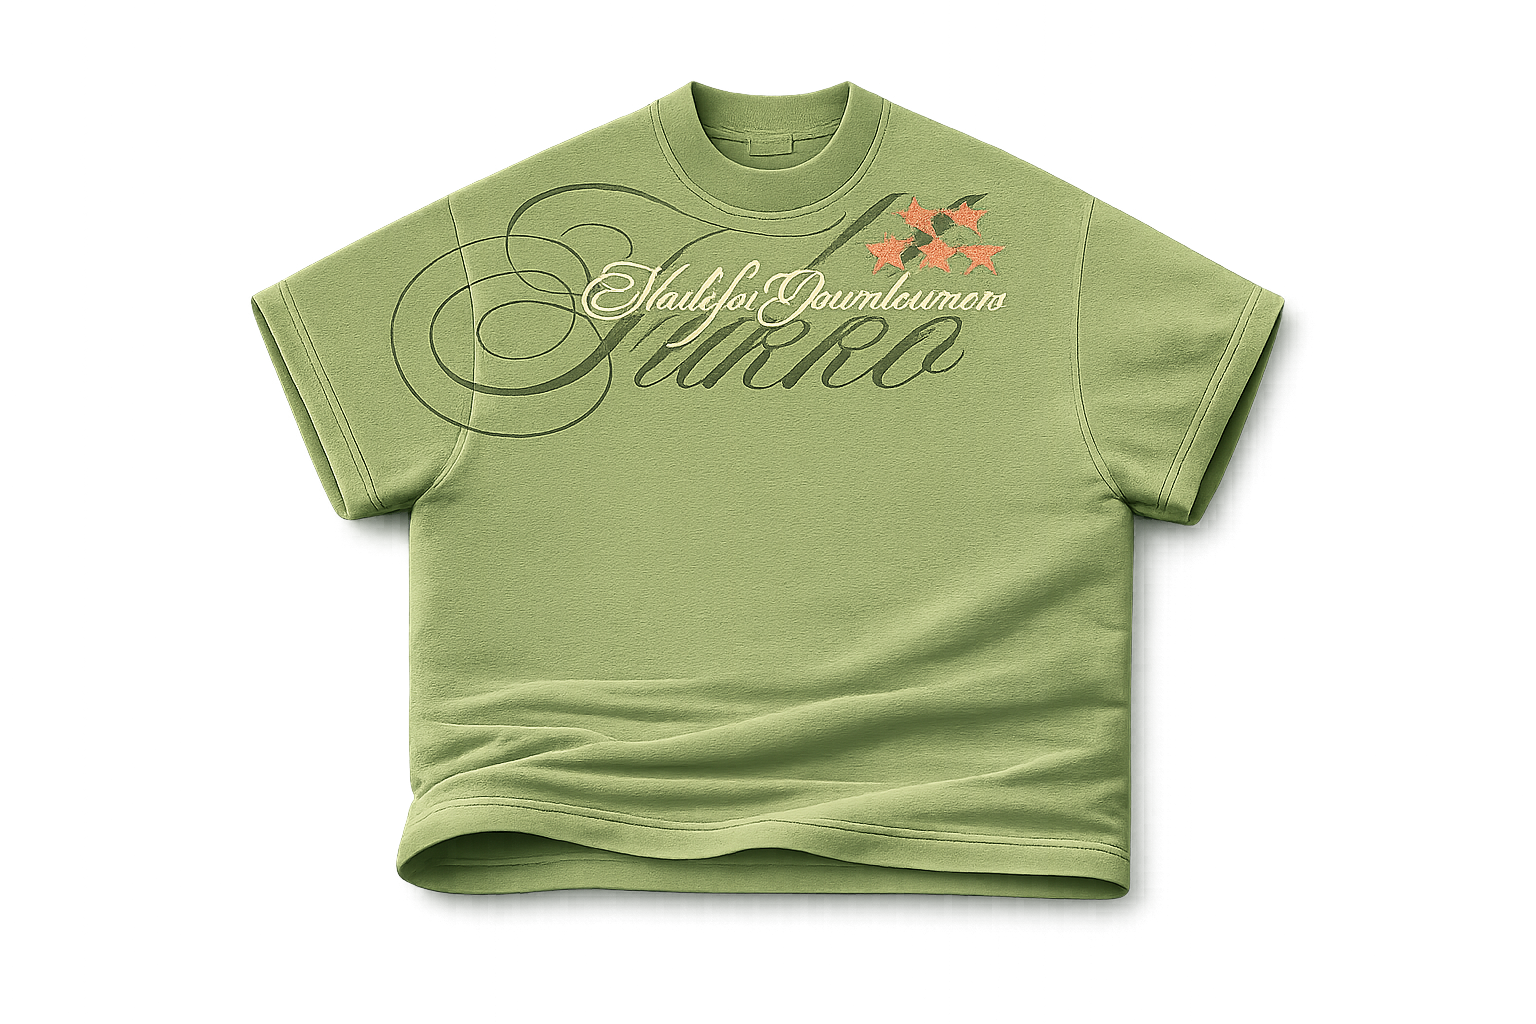
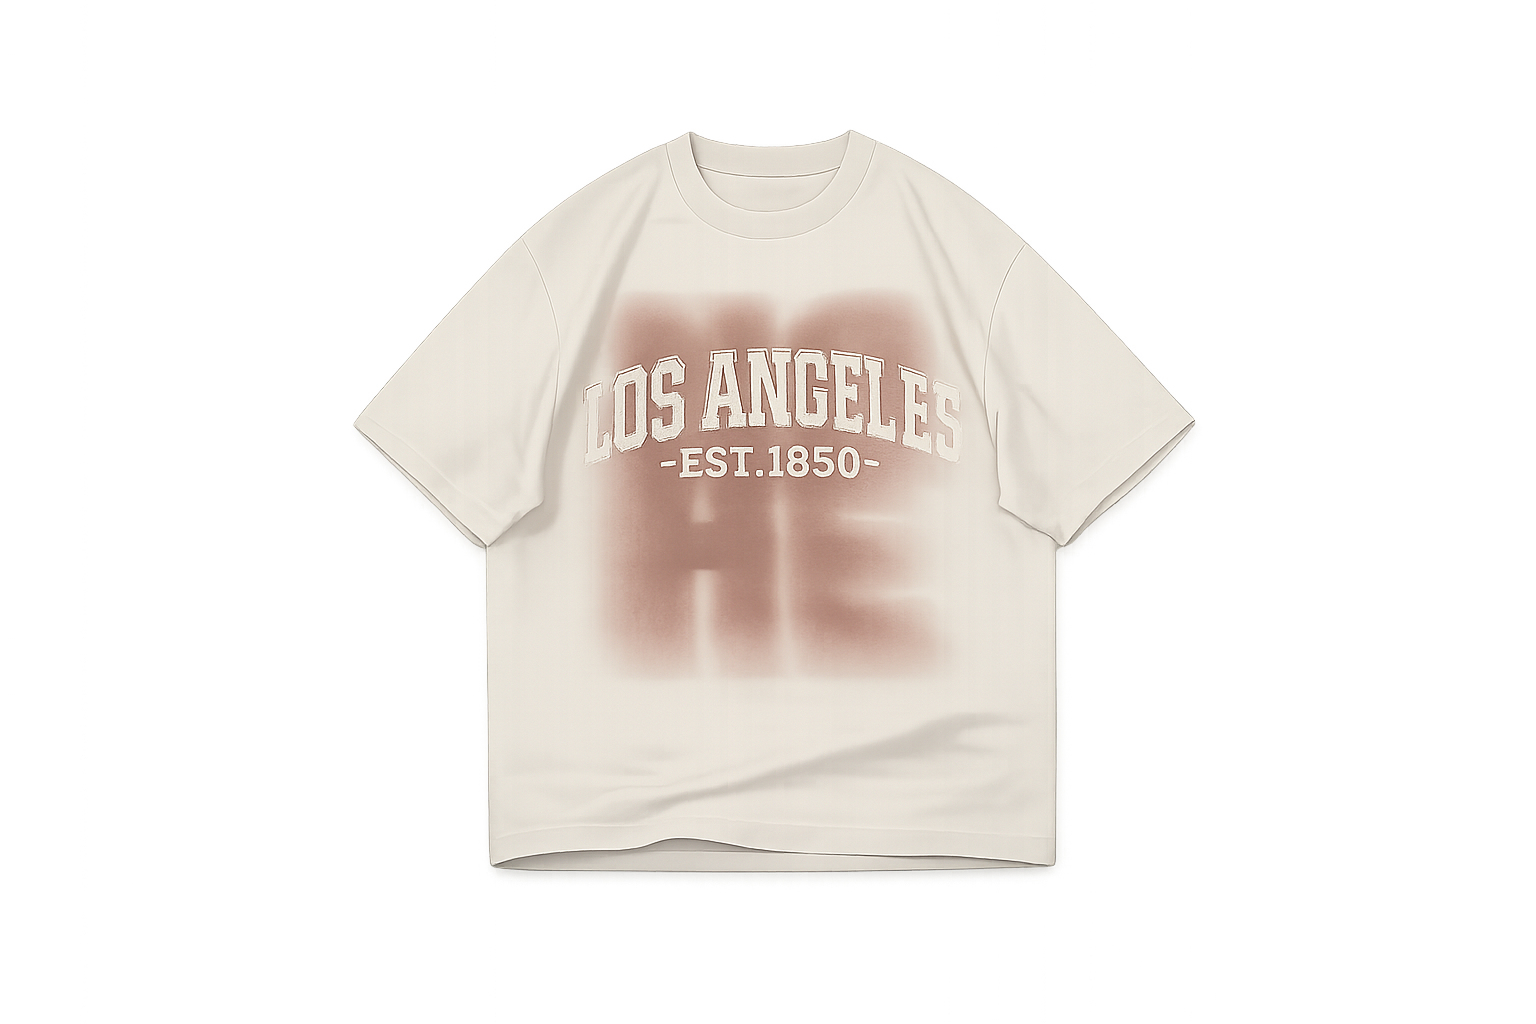
feat: add responsive CSS for mobile and tablet views

diff --git a/src/public/index.html b/src/public/index.html
@@ -443,84 +443,95 @@ nav{position:fixed;top:0;left:0;right:0;z-index:1000;display:flex;justify-conten
 </div>
 
 <script>
-const PRODUCTOS=[
+const PRODUCTOS = [
+
+  // ───── BÁSICAS ─────
   {
     id:'prod-001',
-    nombre:'Void Star',
-    cat:'premium',
-    desc:'Camiseta premium 100% algodón pima.',
-    precio:89900,
-    stock:45,
-    img:'/img/img1.png'
-  },
-
-  {
-    id:'prod-002',
-    nombre:'Celestial Glow',
+    nombre:'West Fade',
     cat:'basicas',
-    desc:'Blanco inmaculado.',
-    precio:69900,
-    stock:80,
-    img:'/img/img2.png'
-  },
-
-  {
-    id:'prod-003',
-    nombre:'Royal Script',
-    cat:'edicion',
-    desc:'Edición limitada.',
-    precio:129900,
-    stock:12,
-    img:'/img/img3.png'
-  },
-
-  {
-    id:'prod-004',
-    nombre:'Olive Motion',
-    cat:'basicas',
-    desc:'Diseño urbano vintage.',
-    precio:74900,
+    desc:'Oversized esencial con gráfica varsity desgastada y efecto washed inspirado en el streetwear vintage de Los Ángeles.',
+    precio:84900,
     stock:60,
     img:'/img/img4.png'
   },
 
   {
-    id:'prod-005',
-    nombre:'Kind Soul',
+    id:'prod-002',
+    nombre:'Fade Vision',
+    cat:'basicas',
+    desc:'Diseño térmico abstracto con efecto artístico futurista.',
+    precio:119900,
+    stock:20,
+    img:'/img/img7.png'
+  },
+
+  {
+    id:'prod-003',
+    nombre:'Nova Heaven',
+    cat:'basicas',
+    desc:'Oversized blanca con gráfica celestial luminosa y detalles minimal inspirados en estética Y2K futurista.',
+    precio:79900,
+    stock:80,
+    img:'/img/img2.png'
+  },
+
+
+
+  // ───── PREMIUM ─────
+  {
+    id:'prod-004',
+    nombre:'Eclipse Nova',
     cat:'premium',
-    desc:'Inspiración streetwear retro.',
-    precio:99900,
+    desc:'Oversized negra con gráfica estelar futurista y acabado premium inspirado en streetwear nocturno contemporáneo.',
+    precio:94900,
+    stock:45,
+    img:'/img/img1.png'
+  },
+
+  {
+    id:'prod-005',
+    nombre:'Blue Remedy',
+    cat:'premium',
+    desc:'Camiseta oversized con estética retro universitaria, detalles contrastantes y gráfica handwritten inspirada en streetwear emocional contemporáneo.',
+    precio:109900,
     stock:30,
     img:'/img/img5.png'
   },
 
   {
     id:'prod-006',
-    nombre:'Purple Phantom',
-    cat:'edicion',
-    desc:'Tono violeta exclusivo.',
-    precio:119900,
+    nombre:'Noir Entity',
+    cat:'premium',
+    desc:'Oversized premium en tono violeta lavado con ilustración minimal darkwear y acabado soft-touch inspirado en streetwear futurista.',
+    precio:139900,
     stock:20,
     img:'/img/img6.png'
   },
-{
-  id:'prod-007',
-  nombre:'Fade Vision',
-  cat:'basicas',
-  desc:'Diseño térmico abstracto con efecto artístico futurista.',
-  precio:119900,
-  stock:20,
-  img:'/img/img7.png'
-},
+
+
+
+  // ───── EDICIÓN LIMITADA ─────
   {
-  id:'prod-008',
-  nombre:'Pink Mirage',
-  cat:'premium',
-  desc:'Diseño gráfico oversized con esencia Y2K y detalles artísticos únicos.',
-  precio:129900,
-  stock:15,
-  img:'/img/img8.png.jpeg'
-},
+    id:'prod-007',
+    nombre:'Azure Legacy',
+    cat:'edicion',
+    desc:'Oversized premium con tipografía gothic bold y estética Y2K inspirada en el streetwear exclusivo de colección.',
+    precio:134900,
+    stock:12,
+    img:'/img/img3.png'
+  },
+
+  {
+    id:'prod-008',
+    nombre:'Virtual Ink',
+    cat:'edicion',
+    desc:'Camiseta oversized con ilustración abstracta estilo brushstroke y acabado visual inspirado en streetwear contemporáneo japonés.',
+    precio:149900,
+    stock:15,
+    img:'/img/img8.png'
+  }
+
 ];
 let cart=[],currentProduct=null,selectedSize='S';
 const fmt=n=>'$'+Math.round(n).toLocaleString('es-CO');